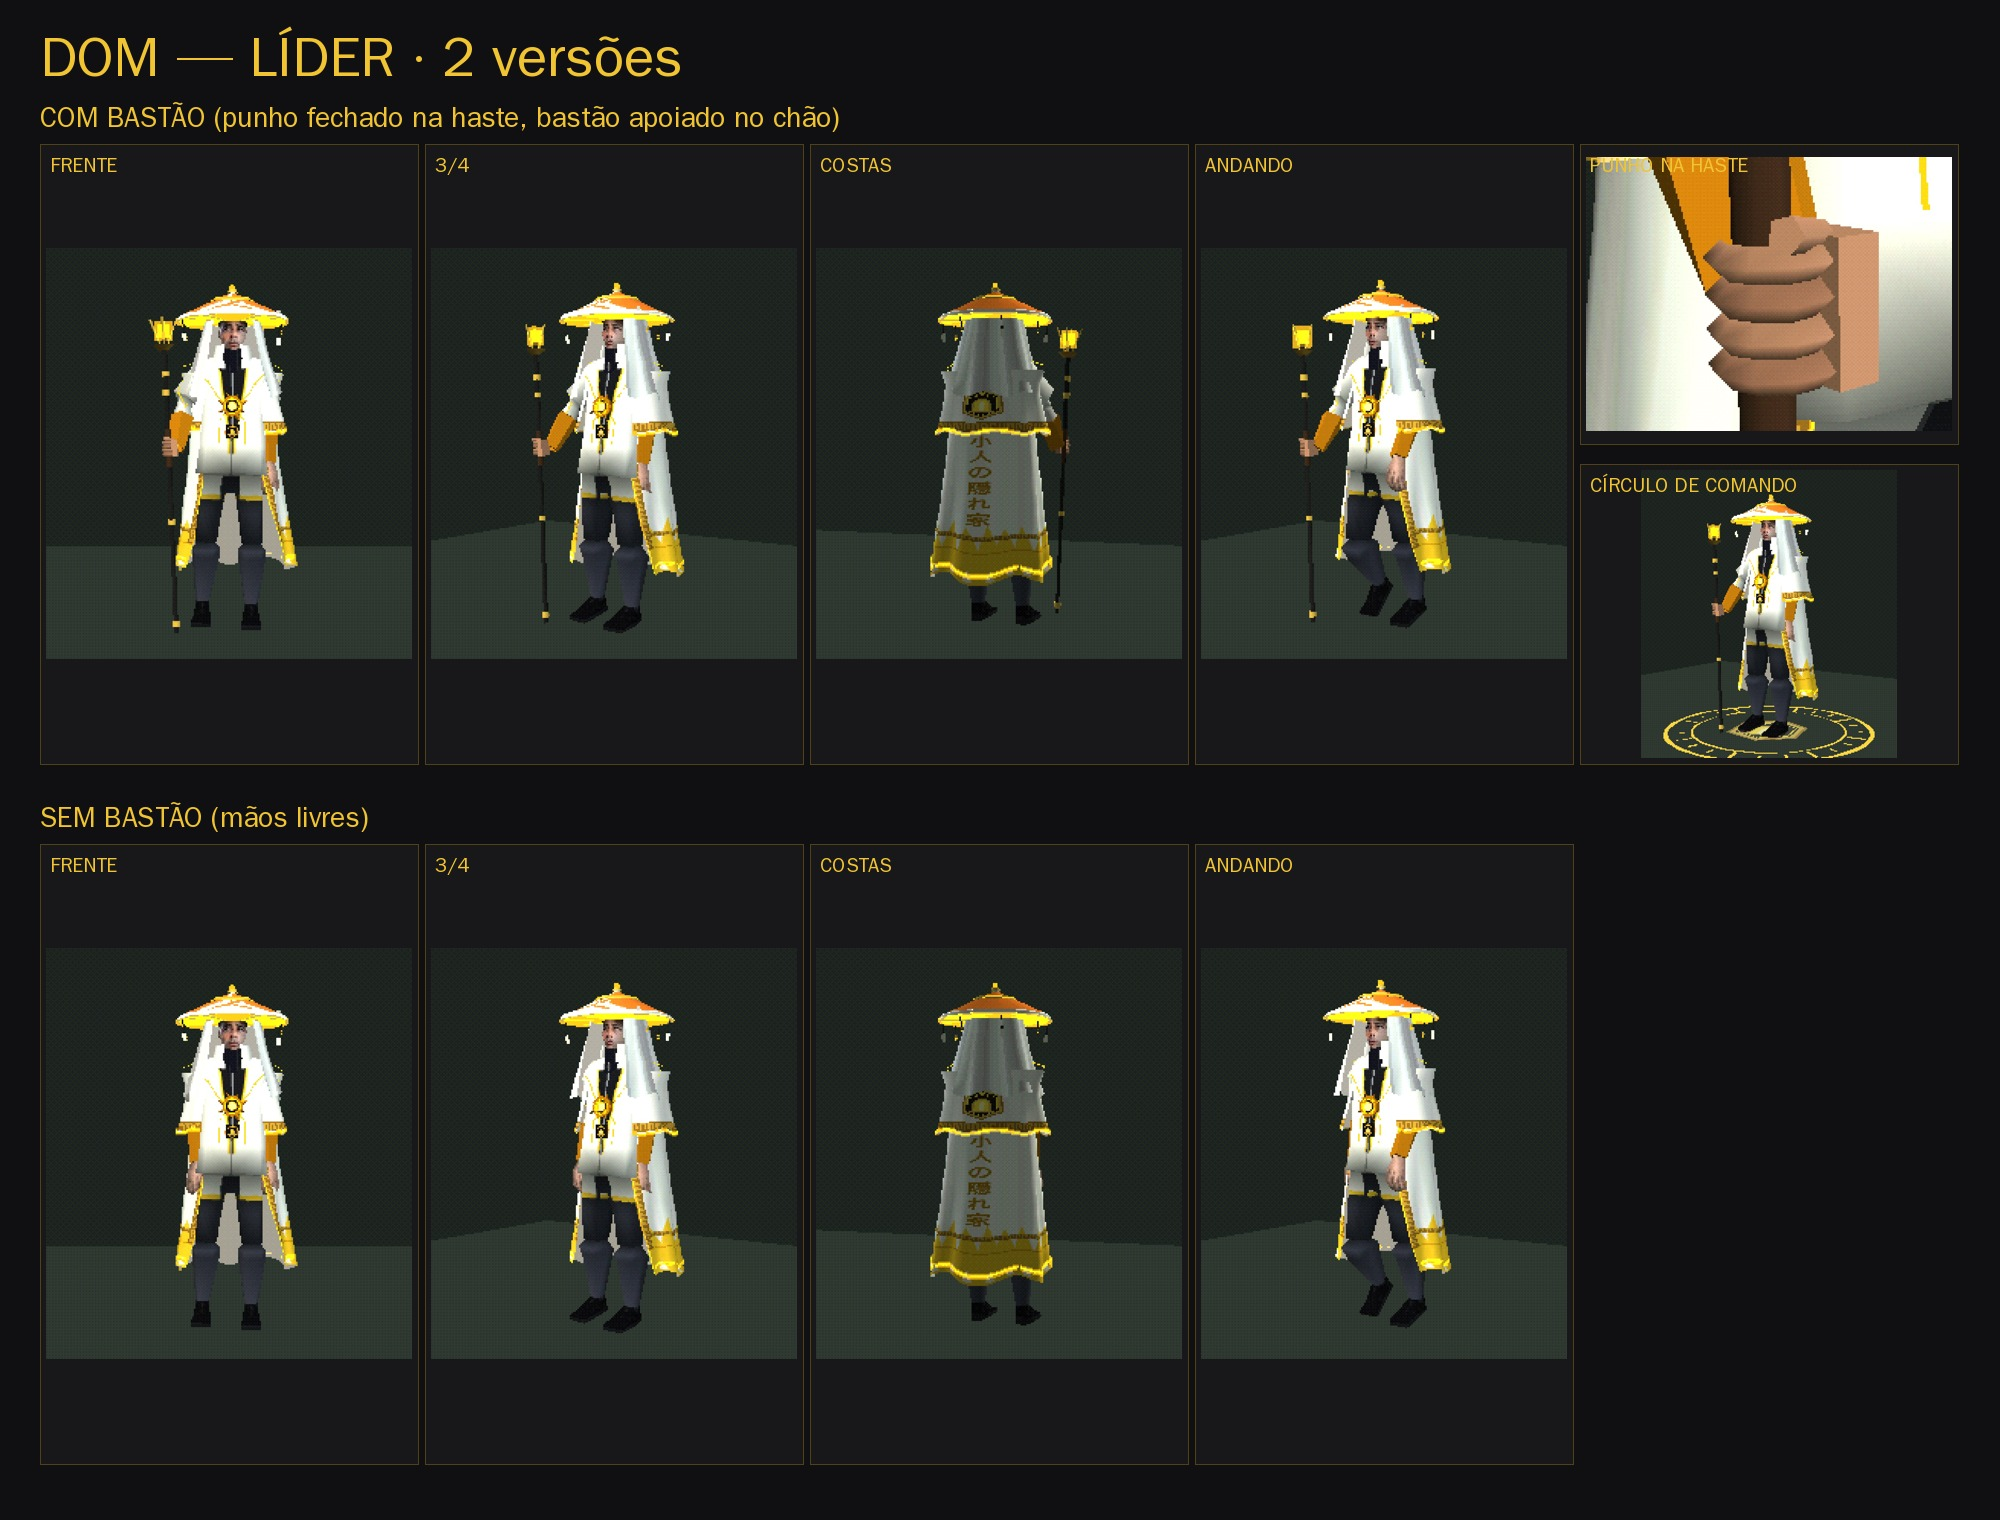
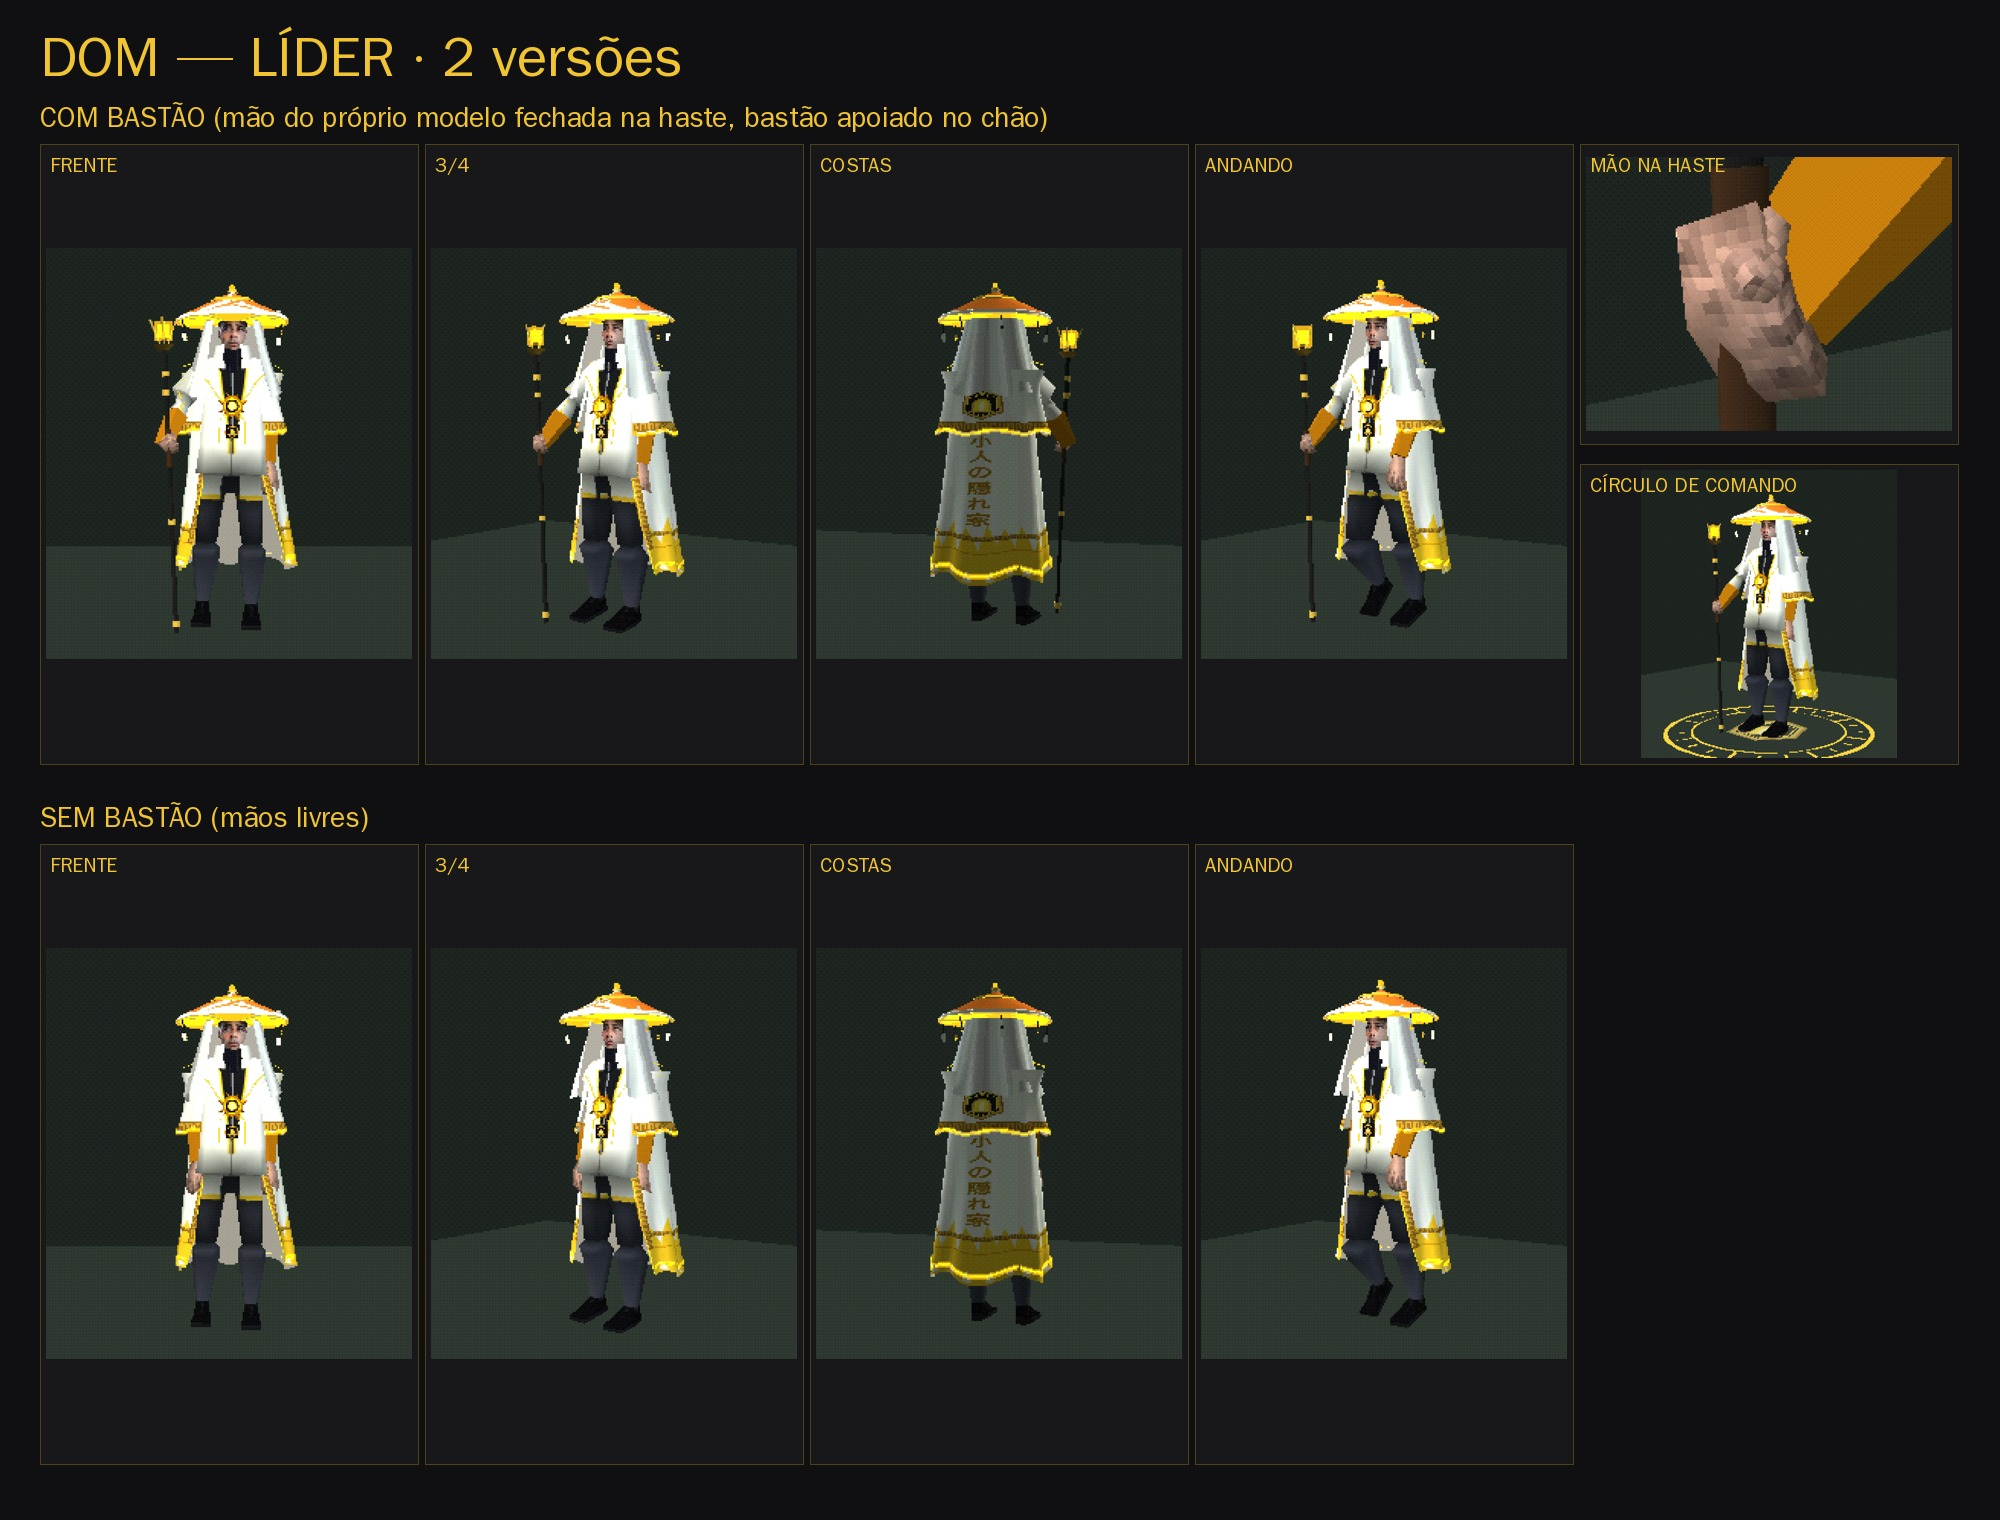
Dom: volta a mão do próprio modelo segurando o bastão (haste na palma, dedos e polegar do modelo fechados); sai o punho modelado
Claude-Session: https://claude.ai/code/session_01PVUNKmUDvaP2jpRAvnz1fM

diff --git a/lib/tgp.js b/lib/tgp.js
@@ -779,21 +779,9 @@ export async function acessoriosDom(A, o = {}) {
     const xo = Math.abs(raiz.worldToLocal(ombro.getWorldPosition(V())).x);
     bastao.position.set(ladoX * (xo + .11), 0, .27); bastao.rotation.z = -ladoX * .04; raiz.add(bastao);   // levemente inclinado pra fora
     const ALT_PEGA = 1.0;
-    // PUNHO FECHADO modelado (como os jogos de PS1 faziam): dorso, 4 dedos enrolados na haste e polegar por cima. Local: +x = pra fora
-    // (lado da mão), +z = frente, +y = cima. A mão aberta do modelo some (osso hand.R encolhido) e o antebraço chega no punho.
-    const PELE = P.mat({ cor: '#b07c5e', lados: THREE.DoubleSide }), PELE2 = P.mat({ cor: '#9a6a50', lados: THREE.DoubleSide });
-    const punho = new THREE.Group(); punho.position.set(0, ALT_PEGA, 0); punho.scale.x = -ladoX; bastao.add(punho);
-    punho.add(P.caixa(.03, .088, .078, PELE, { pos: [.034, 0, .004] }));                                         // dorso da mão
-    for (let k = 0; k < 4; k++) {                                                                                 // dedos enrolados
-      const g_ = new THREE.TorusGeometry(.029, .0105, 4, 6, Math.PI * 1.22); g_.rotateX(Math.PI / 2);
-      const m_ = new THREE.Mesh(g_, k % 2 ? PELE2 : PELE); m_.position.set(.004, .031 - k * .021, .004); punho.add(m_);
-    }
-    const pol = P.cilindro(.011, .009, .052, PELE, { seg: 5 }); pol.position.set(.006, .046, .03); pol.rotation.set(1.25, 0, 1.05); punho.add(pol);   // polegar por cima
-    const PULSO_L = new THREE.Vector3(.036, -.004, -.042);                                                       // onde o antebraço encontra o punho
     // eixo do polegar no espaço local da mão (pra torcer a mão com o polegar pra cima)
     raiz.updateMatrixWorld(true); const tl = mao.worldToLocal(polegar.getWorldPosition(V())); const eixoPol = V(tl.x, 0, tl.z).normalize();
     const DEDOS = ['f_index', 'f_middle', 'f_ring', 'f_pinky'].flatMap(f => ['01', '02', '03'].map(n => A.osso(`${f}.${n}.R`))).filter(Boolean);
-    let sinal = 0;
     const qMundo = b => b.getWorldQuaternion(Q());
     const apontar = (b, dir) => { b.updateMatrixWorld(true); const qw = qMundo(b), y = V(0, 1, 0).applyQuaternion(qw);
       const nw = Q().setFromUnitVectors(y, dir.clone().normalize()).multiply(qw); b.quaternion.copy(qMundo(b.parent).invert().multiply(nw)); b.updateMatrixWorld(true); };
@@ -807,12 +795,16 @@ export async function acessoriosDom(A, o = {}) {
       let palma = V().crossVectors(up, Yd); if (palma.dot(dentro) < 0) palma.negate();
       const S = ombro.getWorldPosition(V()), E0 = coto.getWorldPosition(V()), W0 = mao.getWorldPosition(V());
       const a = S.distanceTo(E0), b = E0.distanceTo(W0), escala = (a + b) / .577;               // .577 = braço+antebraço no modelo base
-      bastao.updateMatrixWorld(true); const W = punho.localToWorld(PULSO_L.clone());                                 // o antebraço chega no pulso do punho modelado
+      // a HASTE PASSA NA PALMA (medido no Blender com a mão do próprio modelo): centro da palma = pulso + 0,05·Y(dedos) − 0,035·X(dorso)
+      const Xd = V().crossVectors(Yd, up).normalize();                                          // dorso da mão (pra fora)
+      const W = G.clone().addScaledVector(Yd, -.05 * escala).addScaledVector(Xd, .035 * escala);
       const dv = W.clone().sub(S); let d = dv.length(); d = Math.min(d, (a + b) * .999); const n = dv.normalize();
       const polo = V().addScaledVector(dentro, -.7).addScaledVector(fr, -.5).addScaledVector(up, -.3).projectOnPlane(n).normalize();
       const cosA = (a * a + d * d - b * b) / (2 * a * d), E = S.clone().addScaledVector(n, a * cosA).addScaledVector(polo, a * Math.sqrt(Math.max(0, 1 - cosA * cosA)));
       apontar(ombro, E.clone().sub(S)); apontar(coto, S.clone().addScaledVector(n, d).sub(coto.getWorldPosition(V())));
-      mao.scale.setScalar(.001); mao.updateMatrixWorld(true);                                                  // a mão aberta do modelo some (entra o punho modelado)
+      apontar(mao, Yd); torcer(mao, eixoPol, up);                                                // dedos pra frente, polegar pra cima (eixo da haste)
+      for (const dd of DEDOS) { const k = /\.01\./.test(dd.name) ? 1.2 : /\.02\./.test(dd.name) ? 1.4 : 1.1; const b0 = A.bind(dd); if (b0) dd.quaternion.copy(b0); dd.rotateOnAxis(V(1, 0, 0), k); }   // dedos do modelo fechados na haste
+      for (const [n_, k] of [['thumb.01.R', .6], ['thumb.02.R', .48]]) { const pb_ = A.osso(n_); if (pb_) { const b0 = A.bind(pb_); if (b0) pb_.quaternion.copy(b0); pb_.rotateOnAxis(V(1, 0, 0), k); } }
       raiz.updateMatrixWorld(true);
     };
   }

diff --git a/material/producao/personagens/dom/LEIA.md b/material/producao/personagens/dom/LEIA.md
@@ -36,8 +36,8 @@ A referência de fã ao Hokage (chapéu cônico com 火, capa branca com chamas,
 - No motor (`acessoriosDom`): capote curto nos ombros (bordado grego dourado, emblema nas costas, barra acesa), bordado dourado nas bordas
   da capa, chapéu com faixa dourada acesa, reator no topo, contas e talismãs balançando; BASTÃO DE COMANDO na mão direita (anéis
   dourados, gaiola, núcleo aceso pulsando) SEMPRE APOIADO NO CHÃO ao lado do pé direito (preso no ator) e o braço direito posto nele a
-  cada quadro (IK de 2 ossos ombro→cotovelo→punho) em todas as animações; a mão aberta do modelo some e entra um PUNHO FECHADO
-  modelado preso na haste (dorso, 4 dedos enrolados, polegar por cima), como os jogos de PS1 faziam;
+  cada quadro (IK de 2 ossos ombro→cotovelo→punho) em todas as animações, com a MÃO DO PRÓPRIO MODELO: haste no centro da palma
+  (pulso + 0,05·dedos − 0,035·dorso, medido no Blender), dedos do modelo dobrados (1,2 / 1,4 / 1,1 rad) e polegar fechado por cima;
   2 versões: com bastão (padrão) e sem bastão (`{ bastao: false }`, folha `?bastao=0`; close da mão: `?v=pega&ang=1.6`); CÍRCULO DE COMANDO no chão (`D.comando(0..1)`; folha: `?comando=1`).
   O medalhão do GLB pulsa (materiais `d_nucleo_brilho`/`d_aura`).
 - Folha: `folha_dom_lider.jpg` (videos/98-dom: `?v=frente|tres|lado|costas|mao|rosto&comando=1&clip=...`).
